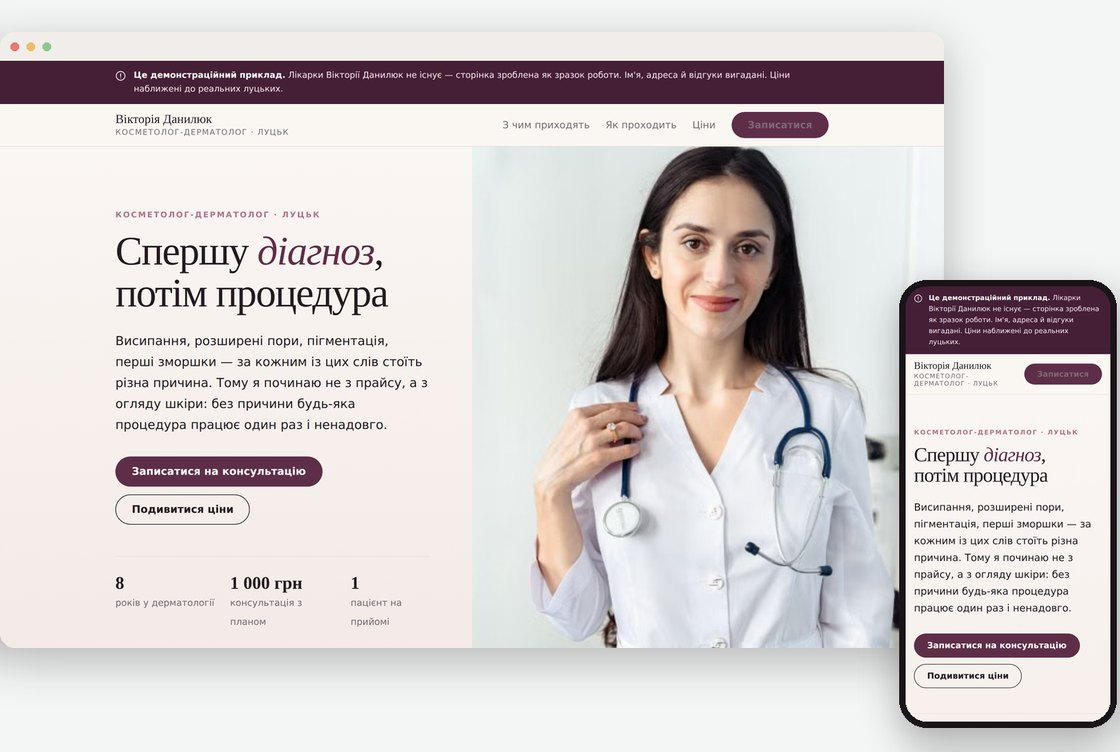
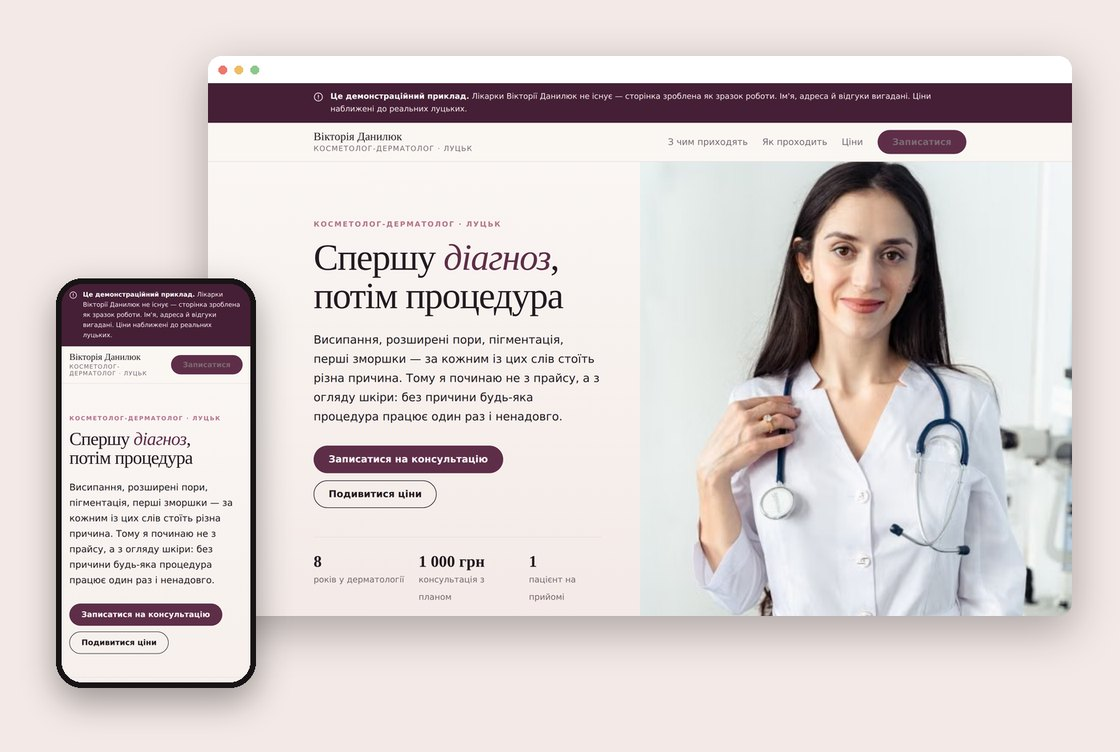
Нове портфоліо

diff --git a/index.html b/index.html
@@ -99,13 +99,12 @@
 
   .work { display: block; text-decoration: none; color: inherit; }
   .work .shot {
+    display: block;
     border-radius: var(--radius-md);
     overflow: hidden;
-    border: 1px solid var(--hairline);
-    background: var(--surface-raised);
-    transition: transform .2s ease, border-color .2s ease;
+    transition: transform .2s ease, box-shadow .2s ease;
   }
-  .work:hover .shot { transform: translateY(-4px); border-color: var(--brand); }
+  .work:hover .shot { transform: translateY(-4px); box-shadow: var(--shadow-card); }
   .work .tag { margin-top: var(--space-4); font-size: 12px; font-weight: 700; letter-spacing: 0.14em; text-transform: uppercase; color: var(--brand); }
   .work h3 { margin-top: var(--space-2); font-family: var(--font-display); font-size: 24px; line-height: 31px; font-weight: 600; }
   .work p { margin-top: var(--space-2); color: var(--ink-muted); max-width: 46ch; }
@@ -174,7 +173,7 @@
     <div class="wrap">
       <a class="logo" href="#top">
         Сайти лікарям
-        <small>Олександр Кожарко · Луцьк</small>
+        <small>Олександр Кожарко</small>
       </a>
       <nav>
         <a href="#roboty">Роботи</a>
@@ -268,8 +267,8 @@
       </div>
 
       <p class="works-note">
-        Це демонстраційні сайти для вигаданих лікарів. Ціни наближені до реальних
-        луцьких. Відкривайте з телефона — більшість пацієнтів дивиться саме так.
+        Це демонстраційні сайти для вигаданих лікарів, із реальними ринковими цінами.
+        Відкривайте з телефона — більшість пацієнтів дивиться саме так.
       </p>
     </div>
   </section>
@@ -306,8 +305,9 @@
       </div>
 
       <p class="works-note">
-        Чого сайт не зробить: не виведе вас у топ за запитом «стоматолог Луцьк» —
-        там клініки з великими сайтами. Він працює на пошук за вашим іменем.
+        Чого сайт не зробить: не виведе вас у топ за загальним запитом на кшталт
+        «стоматолог у місті» — там клініки з великими сайтами. Він працює на пошук
+        за вашим іменем.
       </p>
     </div>
   </section>
@@ -328,10 +328,10 @@
         </ul>
 
         <div class="side">
-          <h3>Скільки це коштує деінде</h3>
-          <p>Агенція за сайт-візитку лікаря просить від 800 $ і 3–6 тижнів. Конструктор дешевший, але збирати його доведеться вам самим.</p>
-          <p>Я між цими варіантами: під ключ, як в агенції, але за 200 $ і за три дні.</p>
-          <p class="muted" style="font-size:15px; line-height:25px">Домен і пошта оплачуються окремо й оформлюються на вас. Передоплата 50% до старту, решта — до передачі доступів.</p>
+          <h3>Умови</h3>
+          <p>Ціна названа до старту й не змінюється в процесі. Без «це виявилось складніше» на етапі здачі.</p>
+          <p>Передоплата 50% до старту, решта — до передачі доступів.</p>
+          <p class="muted" style="font-size:15px; line-height:25px">Домен і робоча пошта оплачуються окремо, за тарифами реєстратора, і оформлюються на вас.</p>
         </div>
       </div>
     </div>
@@ -407,8 +407,8 @@
 
 <footer class="site-footer">
   <div class="wrap">
-    <p>Олександр Кожарко · сайти приватним лікарям · Луцьк</p>
-    <p>Дизайн-система «Клінічна ясність»</p>
+    <p>Олександр Кожарко · сайти приватним лікарям</p>
+    <p><a href="https://t.me/Olexandr_Kozharko" target="_blank" rel="noopener">Telegram</a> · <a href="https://www.instagram.com/sajty.likaryam/" target="_blank" rel="noopener">Instagram</a></p>
   </div>
 </footer>
 
